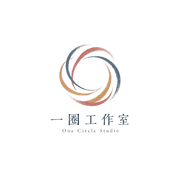
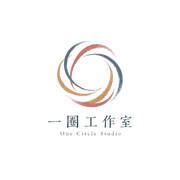
style: 更新品牌圖示並優化 Footer 排版

Changed region(s): [[0.3056, 0.2222, 0.6944, 0.6111], [0.25, 0.6111, 0.7222, 0.7778]]

diff --git a/cultur-route/app/layout.tsx b/cultur-route/app/layout.tsx
@@ -60,9 +60,9 @@ export default function RootLayout({
         
         {children}
 
-        <footer className="mt-auto py-6 flex flex-col items-center gap-2 text-xs text-gray-500">
-          <Image src="/logo.png" alt="一圈工作室" width={32} height={32} className="opacity-70" />
-          一圈工作室 [email redacted]
+        <footer className="mt-auto py-6 flex items-center justify-center gap-2 text-xs text-gray-500">
+          <Image src="/icon.png" alt="一圈工作室" width={24} height={24} className="opacity-70" />
+          一圈工作室 | [email redacted]
         </footer>
       </body>
     </html>